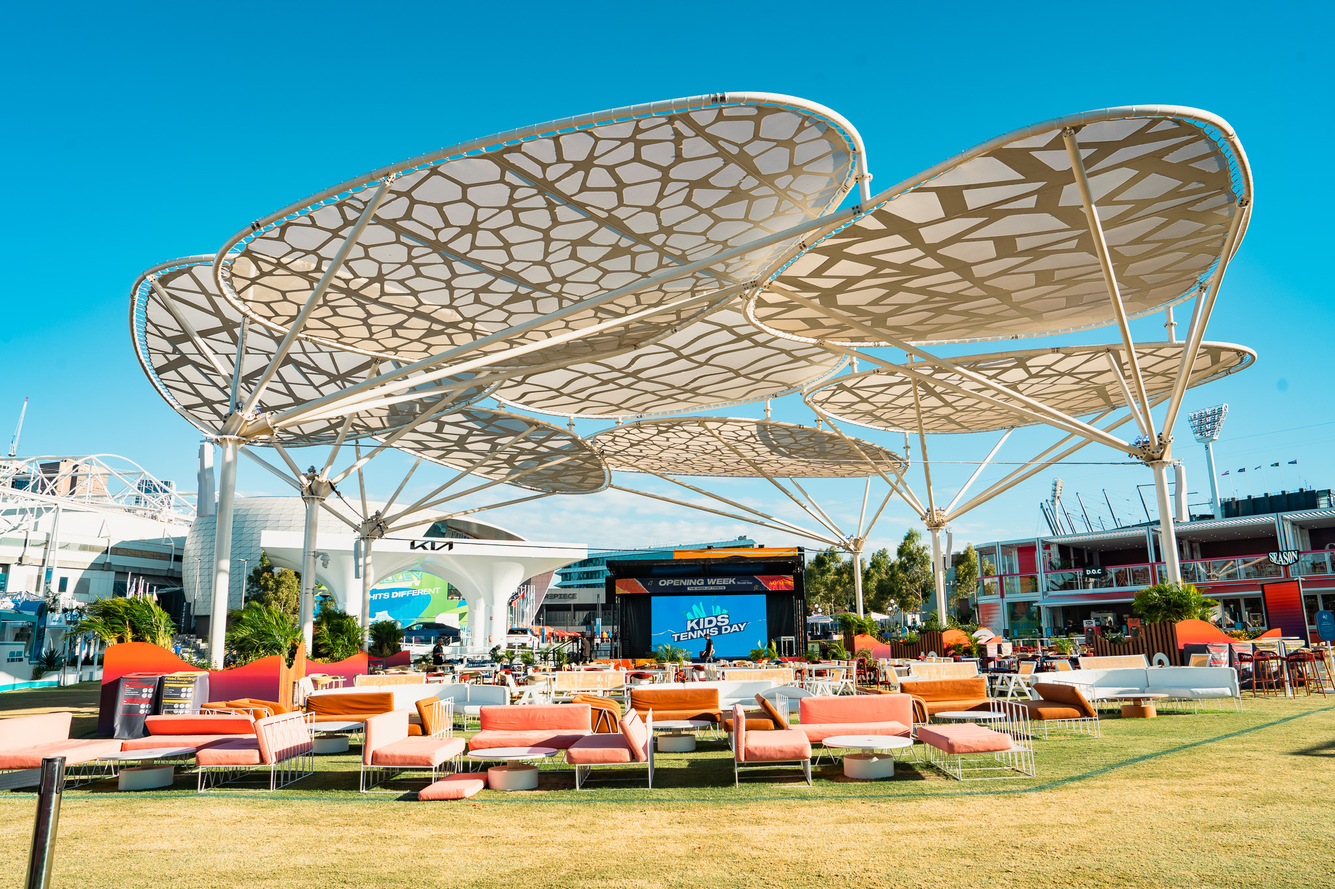
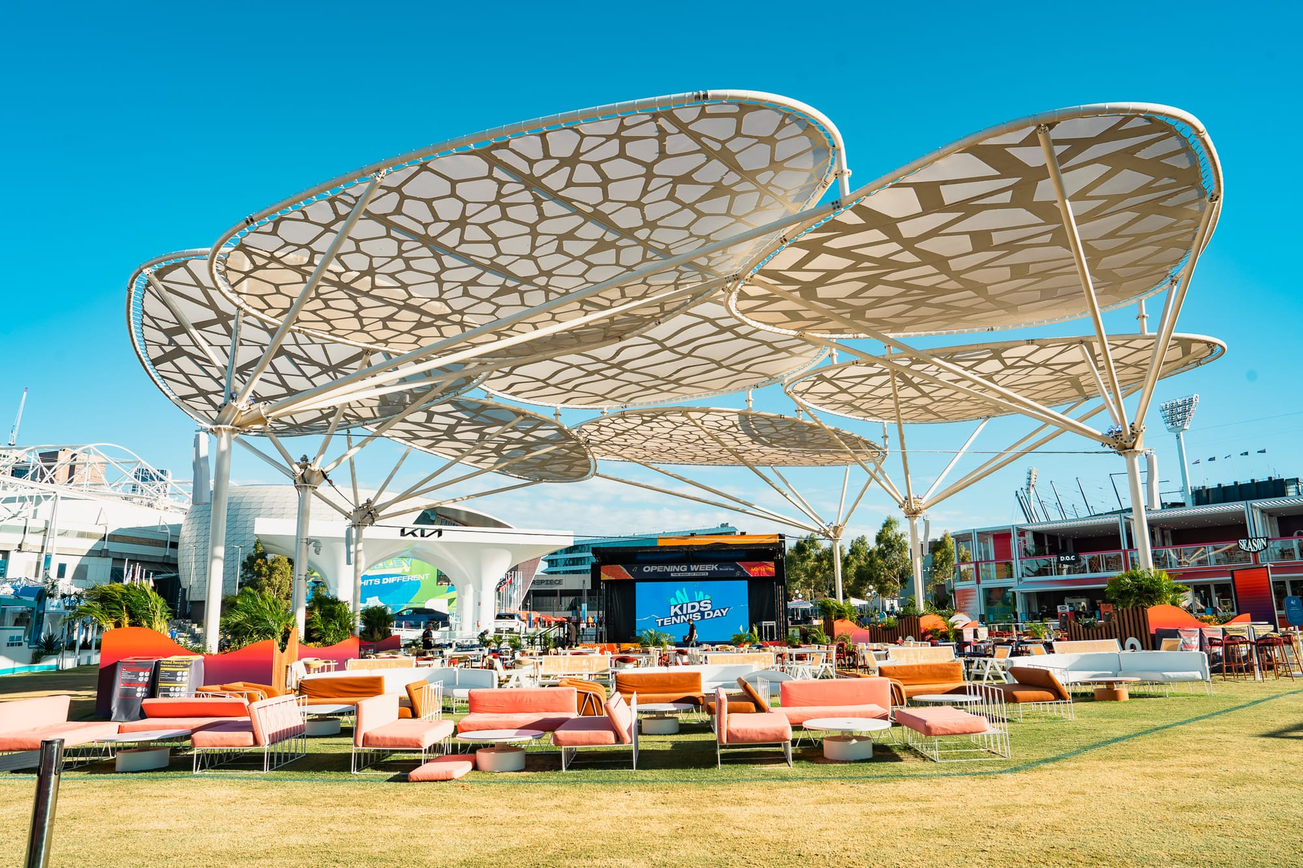
Serve horizontal-section images web-optimised from /public
The divider photos on R2 were full-res camera exports (18-25MB each), so the
horizontal scroll section painted them in slowly on arrival. Resized to max
2000px / q80 (~180-400KB, 60-98x smaller) and moved into /public, served from
the same origin like the Señorita/Pattons photos (no R2 round-trip needed):

- Cecconi1.jpg          17.1MB -> 178KB
- DSC01591.jpg          23.4MB -> 271KB
- PARK-NOIR_006 copy    23.8MB -> 398KB
- Pattons.jpg            1.4MB -> 512KB

diff --git a/app/components/HorizontalVideoScroll.tsx b/app/components/HorizontalVideoScroll.tsx
@@ -17,7 +17,7 @@ const slides = [
     client:  "Cecconi's Toorak & Flinders",
     category:'Fine Dining',
     desc:    "Editorial photography and content for two of Melbourne's most recognised fine dining venues.",
-    photos:  [asset('/Cecconi1.jpg')],
+    photos:  ['/Cecconi1.jpg'],
   },
   {
     src:     asset('/Senorita.mp4'),
@@ -51,7 +51,7 @@ const slides = [
     client:  'Park Noire',
     category:'Hospitality & Nightlife',
     desc:    'A boutique Melbourne venue, with an identity built around atmosphere, not just aesthetics.',
-    photos:  [asset('/PARK-NOIR_006%20copy.jpg')],
+    photos:  ['/PARK-NOIR_006%20copy.jpg'],
     photoPos: 'center 35%',
   },
   {
@@ -62,7 +62,7 @@ const slides = [
     client:  'Waterside Hotel',
     category:'Venue & Events',
     desc:    'A full marketing retainer for a Melbourne waterfront venue, framed across day and night.',
-    photos:  [asset('/DSC01591.jpg')],
+    photos:  ['/DSC01591.jpg'],
   },
 ]
 
